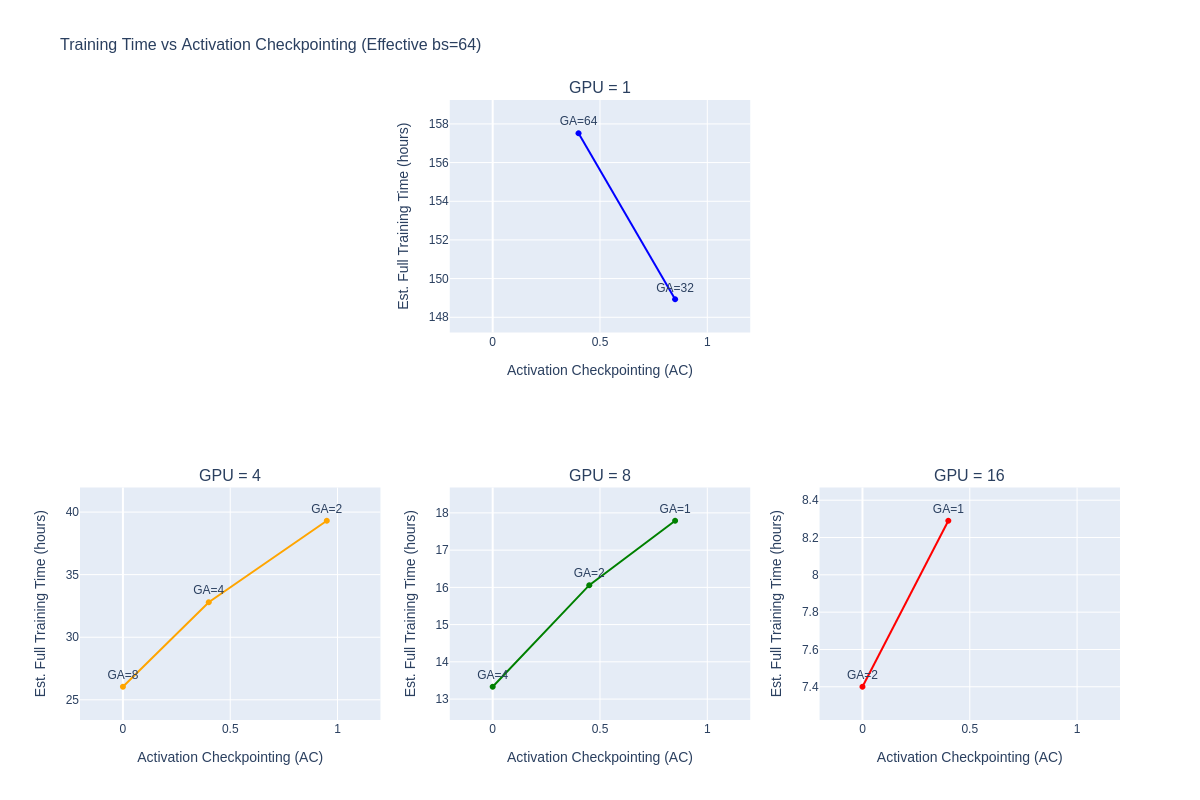
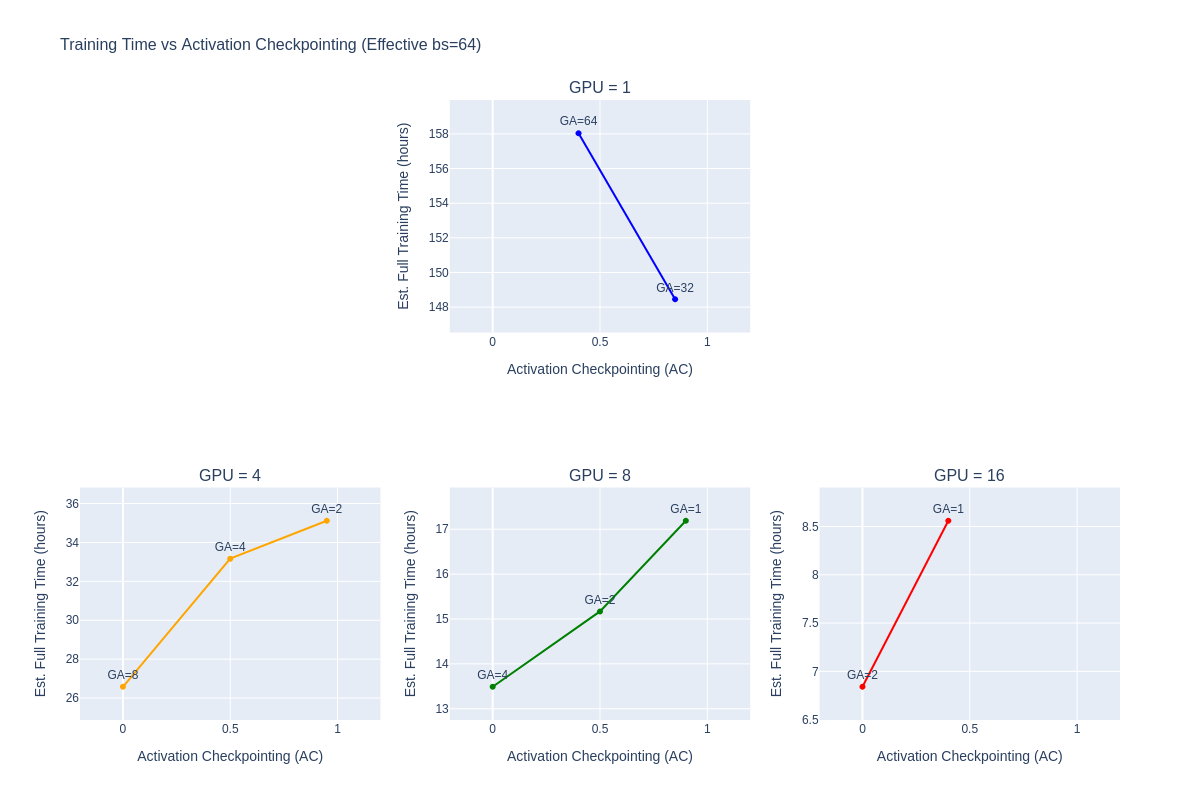
update result with more robust time measurements

diff --git a/README.md b/README.md
@@ -8,12 +8,12 @@
 
 #### Required AC and GA for multi-gpus training with fixed batch size per GPU (effective batch size = 64)
 
-|         | bs=1          | bs=2           | bs=4          | bs=8          |
-|---------|---------------|----------------|---------------|---------------|
-| GPUs=1  | AC=0.4, GA=64 | AC=0.85, GA=32 | -             | -             |
-| GPUs=4  | -             | AC=0.0, GA=8   | AC=0.4, GA=4  | AC=0.95, GA=2 |
-| GPUs=8  | -             | AC=0.0, GA=4   | AC=0.45, GA=2 | AC=0.85, GA=1 |
-| GPUs=16 | -             | AC=0.0, GA=2   | AC=0.4, GA=1  | -             |
+|         | bs=1          | bs=2           | bs=4         | bs=8          |
+|---------|---------------|----------------|--------------|---------------|
+| GPUs=1  | AC=0.4, GA=64 | AC=0.85, GA=32 | -            | -             |
+| GPUs=4  | -             | AC=0.0, GA=8   | AC=0.5, GA=4 | AC=0.95, GA=2 |
+| GPUs=8  | -             | AC=0.0, GA=4   | AC=0.5, GA=2 | AC=0.90, GA=1 |
+| GPUs=16 | -             | AC=0.0, GA=2   | AC=0.4, GA=1 | -             |
 
 - **AC** (Activation Checkpointing): ratio of activation layers that are not in memory (0.0 = all in memory, 1.0 = nothing in memory). Trades compute for memory.
 - **GA** (Gradient Accumulation): number of forward/backward passes before optimizer step. Trades compute for memory.
